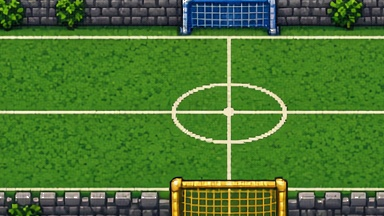
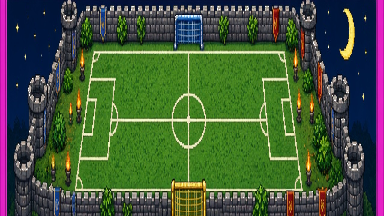
Swap PIXEL mode to Pixel Forge’s clean 32×32 atlases.
Use official vehicles/boost/pitch/ball VFX sheets (magenta gutters, N=screen-down) instead of the homemade 64px slices.

diff --git a/pixel.js b/pixel.js
@@ -1,13 +1,23 @@
 /**
- * PIXEL mode — Pixel Forge SNES castle pitch + 8-dir vehicle atlases.
+ * PIXEL mode — Pixel Forge castle pitch + 8-dir vehicle atlases + ball VFX.
  * Same sim bodies (x/z/yaw); no physics here.
  */
 import { FW, FL } from "./catalog.js";
 
-const CELL = 64;
-const GUTTER = 1;
-const ATLAS_COLS = ["N", "NE", "E", "SE", "S", "SW", "W", "NW"];
+const CELL = 32;
+const GUT = 1; // between cells only (no outer frame)
 const ROW_OF = { cybertruck: 0, model3: 1, cybercab: 2, semi: 3 };
+
+// ball_vfx_atlas.png row layout (1px magenta between rows)
+const BALL = {
+  ball16: { y: 0, size: 16, frames: 4 },
+  ball24: { y: 17, size: 24, frames: 4 },
+  shadow: { y: 42, size: 32, frames: 1 },
+  boost: { y: 75, size: 32, frames: 8 },
+  dust: { y: 108, size: 32, frames: 6 },
+  goalburst: { y: 141, size: 32, frames: 8 },
+  banner: { y: 174, size: 64, frames: 2 }
+};
 
 function loadImage(src) {
   return new Promise((resolve, reject) => {
@@ -19,11 +29,11 @@ function loadImage(src) {
 }
 
 function yawToCol(yaw) {
-  // forwardXZ: (-sin yaw, -cos yaw). atan2(fwdX, fwdZ):
-  // yaw=0 → faces -z (screen up) → S; yaw=π → +z (screen down) → N
+  // forward: (-sin yaw, -cos yaw). atan2(fwdX,fwdZ):
+  // yaw=0 → -z (screen up) → S; yaw=π → +z (screen down) → N
   const fwdX = -Math.sin(yaw);
   const fwdZ = -Math.cos(yaw);
-  let ang = Math.atan2(fwdX, fwdZ); // [-π, π], 0 = +z = N
+  let ang = Math.atan2(fwdX, fwdZ);
   if (ang < 0) ang += Math.PI * 2;
   return Math.round((ang / (Math.PI * 2)) * 8) % 8;
 }
@@ -56,13 +66,21 @@ function createPixelView() {
   let pitchImg = null;
   let carsImg = null;
   let boostImg = null;
+  let vfxImg = null;
   let tAnim = 0;
 
-  loadImage("./assets/pixel/pitch.png")
-    .then((img) => { pitchImg = img; return loadImage("./assets/pixel/vehicles_8dir.png"); })
-    .then((img) => { carsImg = img; return loadImage("./assets/pixel/vehicles_boost.png"); })
-    .then((img) => { boostImg = img; ready = true; })
-    .catch((err) => console.warn("[pixel]", err));
+  Promise.all([
+    loadImage("./assets/pixel/pitch.png"),
+    loadImage("./assets/pixel/vehicles_8dir.png"),
+    loadImage("./assets/pixel/vehicles_boost.png"),
+    loadImage("./assets/pixel/ball_vfx.png")
+  ]).then(([pitch, cars, boost, vfx]) => {
+    pitchImg = pitch;
+    carsImg = cars;
+    boostImg = boost;
+    vfxImg = vfx;
+    ready = true;
+  }).catch((err) => console.warn("[pixel]", err));
 
   function setActive(on) {
     active = !!on;
@@ -73,7 +91,6 @@ function createPixelView() {
   function isActive() { return active; }
 
   function worldTo(x, z) {
-    // Pitch art is full-bleed; map field to inset playable grass (~10% margin)
     const padX = 28;
     const padTop = 22;
     const padBot = 20;
@@ -86,19 +103,6 @@ function createPixelView() {
     };
   }
 
-  function drawFallbackPitch() {
-    ctx.fillStyle = night ? "#0c1430" : "#3a6aaa";
-    ctx.fillRect(0, 0, VW, VH);
-    ctx.fillStyle = night ? "#1e6b28" : "#2f9a3a";
-    ctx.fillRect(20, 18, VW - 40, VH - 36);
-    ctx.strokeStyle = "#f7f1d0";
-    ctx.strokeRect(20, 18, VW - 40, VH - 36);
-    ctx.beginPath();
-    ctx.moveTo(VW / 2, 18);
-    ctx.lineTo(VW / 2, VH - 18);
-    ctx.stroke();
-  }
-
   function drawPitch() {
     if (pitchImg) {
       ctx.imageSmoothingEnabled = false;
@@ -107,9 +111,12 @@ function createPixelView() {
         ctx.fillStyle = "rgba(8,16,48,0.28)";
         ctx.fillRect(0, 0, VW, VH);
       }
-    } else {
-      drawFallbackPitch();
+      return;
     }
+    ctx.fillStyle = night ? "#0c1430" : "#3a6aaa";
+    ctx.fillRect(0, 0, VW, VH);
+    ctx.fillStyle = night ? "#1e6b28" : "#2f9a3a";
+    ctx.fillRect(20, 18, VW - 40, VH - 36);
   }
 
   function blitCar(kind, yaw, boosting, sx, sy, scale) {
@@ -117,9 +124,9 @@ function createPixelView() {
     const col = yawToCol(yaw);
     const sheet = boosting && boostImg ? boostImg : carsImg;
     if (!sheet) return false;
-    const sx0 = GUTTER + col * (CELL + GUTTER);
-    const sy0 = GUTTER + row * (CELL + GUTTER);
-    const draw = Math.max(14, Math.min(36, scale * 3.2));
+    const sx0 = col * (CELL + GUT);
+    const sy0 = row * (CELL + GUT);
+    const draw = Math.max(16, Math.min(40, scale * 3.4));
     ctx.drawImage(sheet, sx0, sy0, CELL, CELL, sx - draw / 2, sy - draw / 2, draw, draw);
     return true;
   }
@@ -127,30 +134,36 @@ function createPixelView() {
   function drawCar(c) {
     if (!c) return;
     const { sx, sy, scale } = worldTo(c.x, c.z);
-    const ok = blitCar(c.kind, c.yaw, !!c.boosting, sx, sy, scale);
-    if (ok) return;
-    // tiny fallback rect if sheets still loading
-    ctx.fillStyle = "#3a6fff";
-    ctx.fillRect(sx - 4, sy - 3, 8, 6);
+    if (!blitCar(c.kind, c.yaw, !!c.boosting, sx, sy, scale)) {
+      ctx.fillStyle = "#3a6fff";
+      ctx.fillRect(sx - 4, sy - 3, 8, 6);
+    }
+  }
+
+  function blitVfx(rowKey, frame, dx, dy, dw, dh) {
+    if (!vfxImg) return false;
+    const row = BALL[rowKey];
+    if (!row) return false;
+    const f = ((frame % row.frames) + row.frames) % row.frames;
+    const sx0 = f * (row.size + GUT);
+    ctx.drawImage(vfxImg, sx0, row.y, row.size, row.size, dx, dy, dw, dh);
+    return true;
   }
 
   function drawBall(ball) {
     if (!ball) return;
     const { sx, sy, scale } = worldTo(ball.x, ball.z);
-    const r = Math.max(3, 0.55 * scale);
-    ctx.fillStyle = "rgba(0,0,0,0.35)";
-    ctx.beginPath();
-    ctx.ellipse(sx + 1, sy + 2, r * 0.9, r * 0.4, 0, 0, Math.PI * 2);
-    ctx.fill();
-    ctx.fillStyle = "#f4f0e6";
-    ctx.beginPath();
-    ctx.arc(sx, sy, r, 0, Math.PI * 2);
-    ctx.fill();
-    ctx.fillStyle = "#1a1a1a";
-    const spin = (ball.vx || 0) + (ball.vz || 0) + tAnim * 8;
-    const a = spin * 0.4;
-    ctx.fillRect(sx + Math.cos(a) * r * 0.35 - 1, sy + Math.sin(a) * r * 0.35 - 1, 2, 2);
-    ctx.fillRect(sx - Math.cos(a) * r * 0.4 - 1, sy - Math.sin(a) * r * 0.4 - 1, 2, 2);
+    const r = Math.max(4, 0.6 * scale);
+    const spin = Math.abs(ball.vx || 0) + Math.abs(ball.vz || 0);
+    const frame = Math.floor((tAnim * 10 + spin * 0.15) % 4);
+
+    blitVfx("shadow", 0, sx - r, sy + r * 0.35, r * 2, r);
+    if (!blitVfx("ball24", frame, sx - r, sy - r, r * 2, r * 2)) {
+      ctx.fillStyle = "#f4f0e6";
+      ctx.beginPath();
+      ctx.arc(sx, sy, r, 0, Math.PI * 2);
+      ctx.fill();
+    }
   }
 
   function drawHud(label) {
@@ -161,8 +174,7 @@ function createPixelView() {
     ctx.fillText("GROKET · PIXEL", 8, 13);
     ctx.fillStyle = "#f7f1d0";
     ctx.font = "7px monospace";
-    const tag = label || (night ? "TORCH NIGHT" : "CASTLE DAY");
-    ctx.fillText(tag, VW - 72, 13);
+    ctx.fillText(label || (night ? "TORCH NIGHT" : "CASTLE DAY"), VW - 72, 13);
   }
 
   function draw(state) {
@@ -175,11 +187,11 @@ function createPixelView() {
     drawBall(state.ball);
     drawHud(state.mapLabel);
     if (!ready) {
-      ctx.fillStyle = "rgba(0,0,0,0.4)";
-      ctx.fillRect(VW / 2 - 40, VH / 2 - 8, 80, 16);
+      ctx.fillStyle = "rgba(0,0,0,0.45)";
+      ctx.fillRect(VW / 2 - 42, VH / 2 - 8, 84, 16);
       ctx.fillStyle = "#fff";
       ctx.font = "8px monospace";
-      ctx.fillText("LOADING SPRITES…", VW / 2 - 36, VH / 2 + 3);
+      ctx.fillText("LOADING SPRITES…", VW / 2 - 38, VH / 2 + 3);
     }
   }
 
@@ -187,3 +199,4 @@ function createPixelView() {
 }
 
 export { createPixelView };
+
